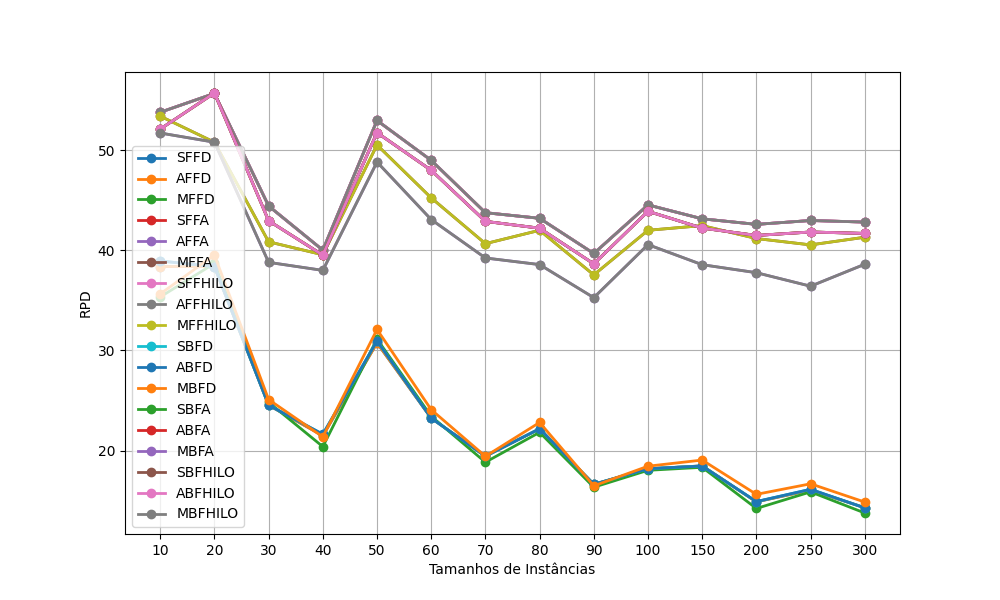
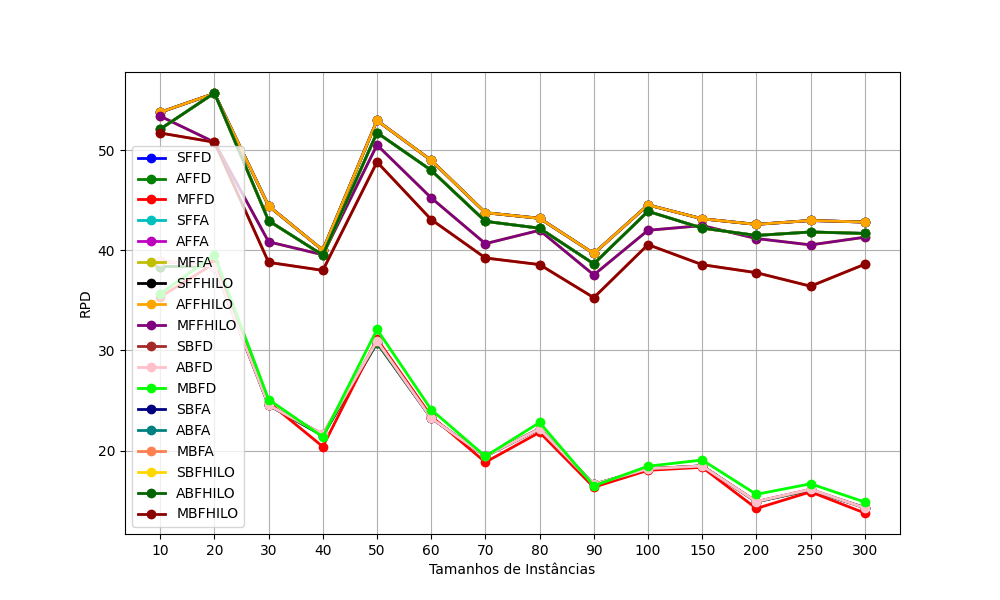
add

diff --git a/src/main.py b/src/main.py
@@ -99,18 +99,24 @@ def analysis():
         rpd_values = [item['itemResult'][file]['rpd'] for file in item['itemResult']]
         time_values = [item['itemResult'][file]['meanTime'] for file in item['itemResult']]
 
-        avrRPD = sum(rpd_values)/len(rpd_values)
+        avrRPD = sum(rpd_values) / len(rpd_values)
         avrRPDValues.setdefault(item['item']["id"], []).append(avrRPD)
 
-        avrTime = sum(time_values)/len(time_values)
+        avrTime = sum(time_values) / len(time_values)
         avrTimeValues.setdefault(item['item']["id"], []).append(avrTime)
 
     plt.figure(figsize=(10, 6))
 
-    for key in avrRPDValues:
-        plt.plot(fileSizeClass, avrRPDValues[key], label=key, marker='o', linewidth=2)
-        # plt.plot(fileSizeClass, avrTimeValues[key], label=key, marker='o', linewidth=2)
+    # Define 20 distinct colors
+    colors = [
+        'b', 'g', 'r', 'c', 'm', 'y', 'k', 'orange', 'purple', 'brown',
+        'pink', 'lime', 'navy', 'teal', 'coral', 'gold', 'darkgreen', 
+        'darkred', 'violet', 'gray'
+    ]
 
+    for i, key in enumerate(avrRPDValues):
+        plt.plot(fileSizeClass, avrRPDValues[key], label=key, marker='o', linewidth=2, color=colors[i % len(colors)])
+        # plt.plot(fileSizeClass, avrTimeValues[key], label=key, marker='o', linewidth=2, color=colors[i % len(colors)])
 
     plt.grid(True)
     plt.xlabel('Tamanhos de Instâncias')
